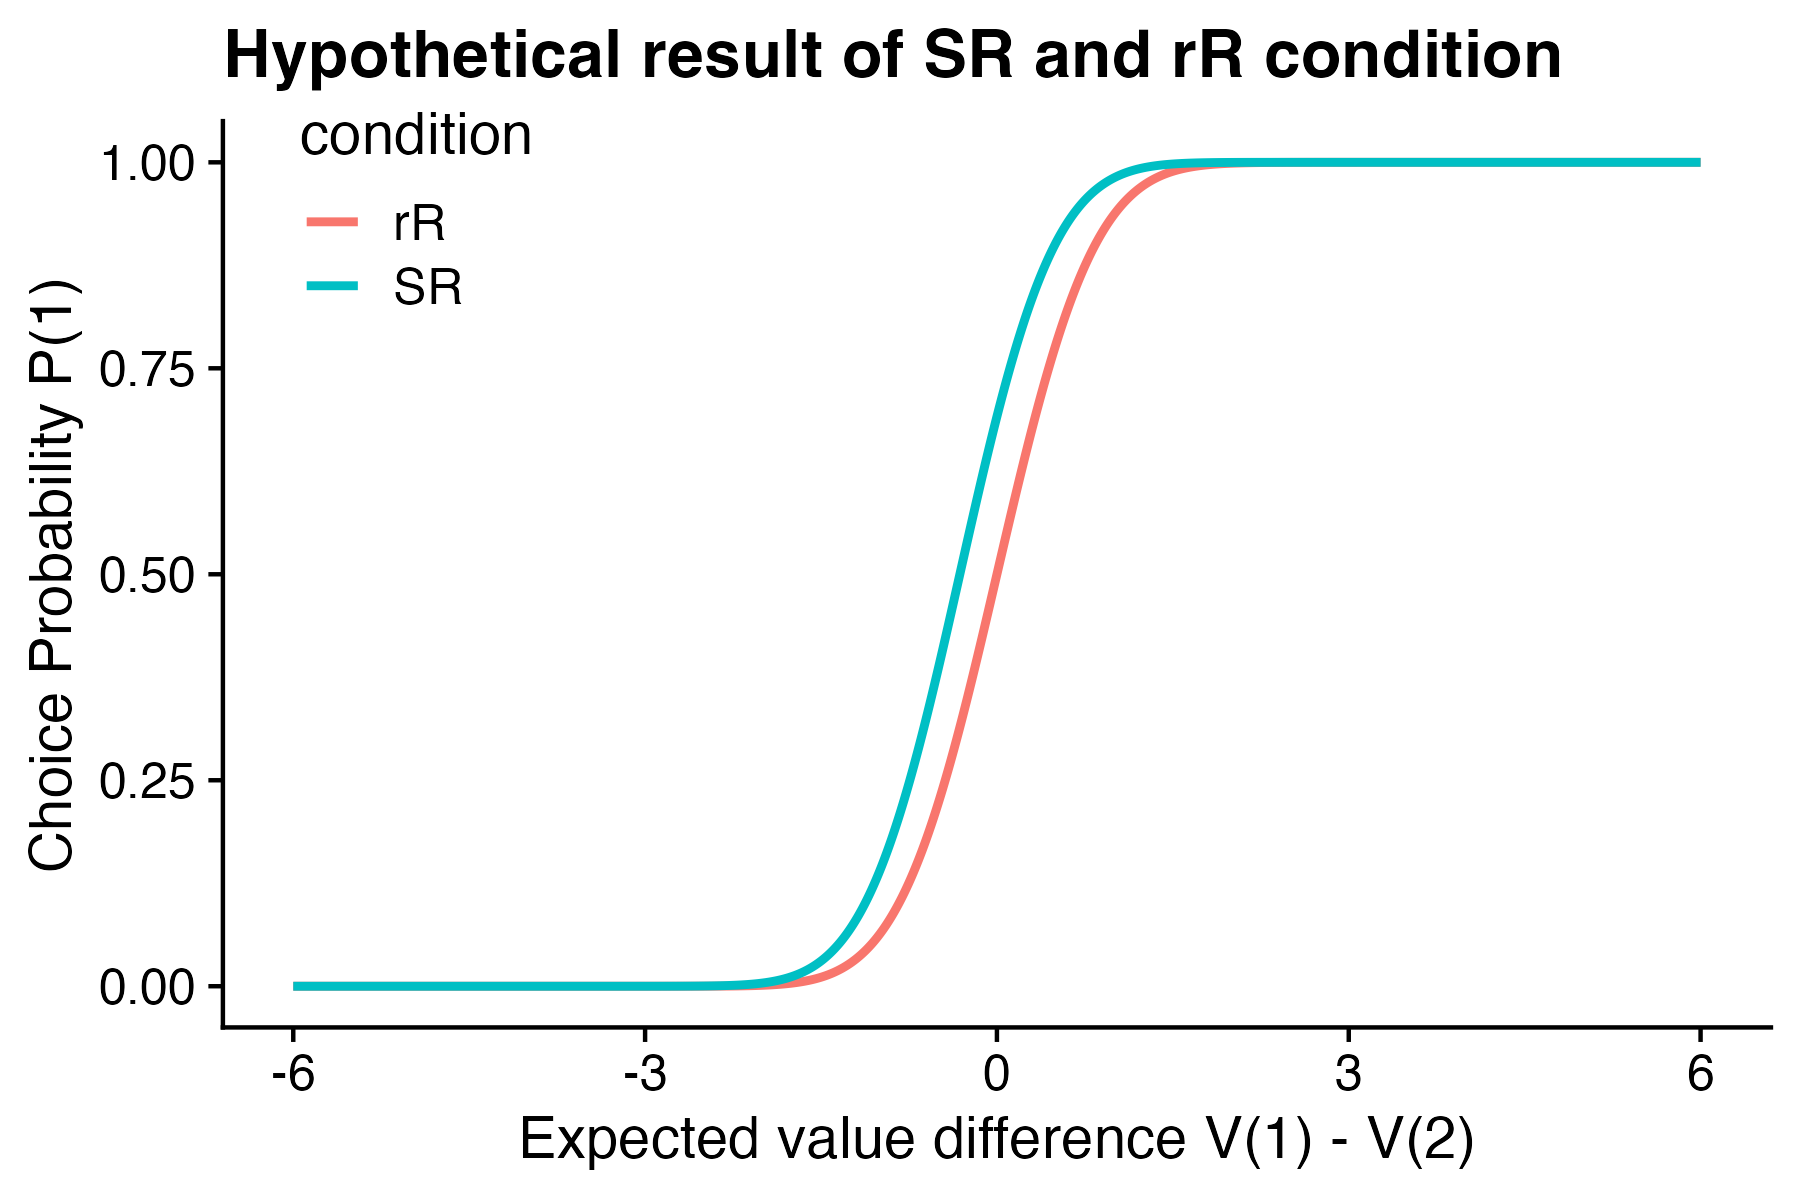
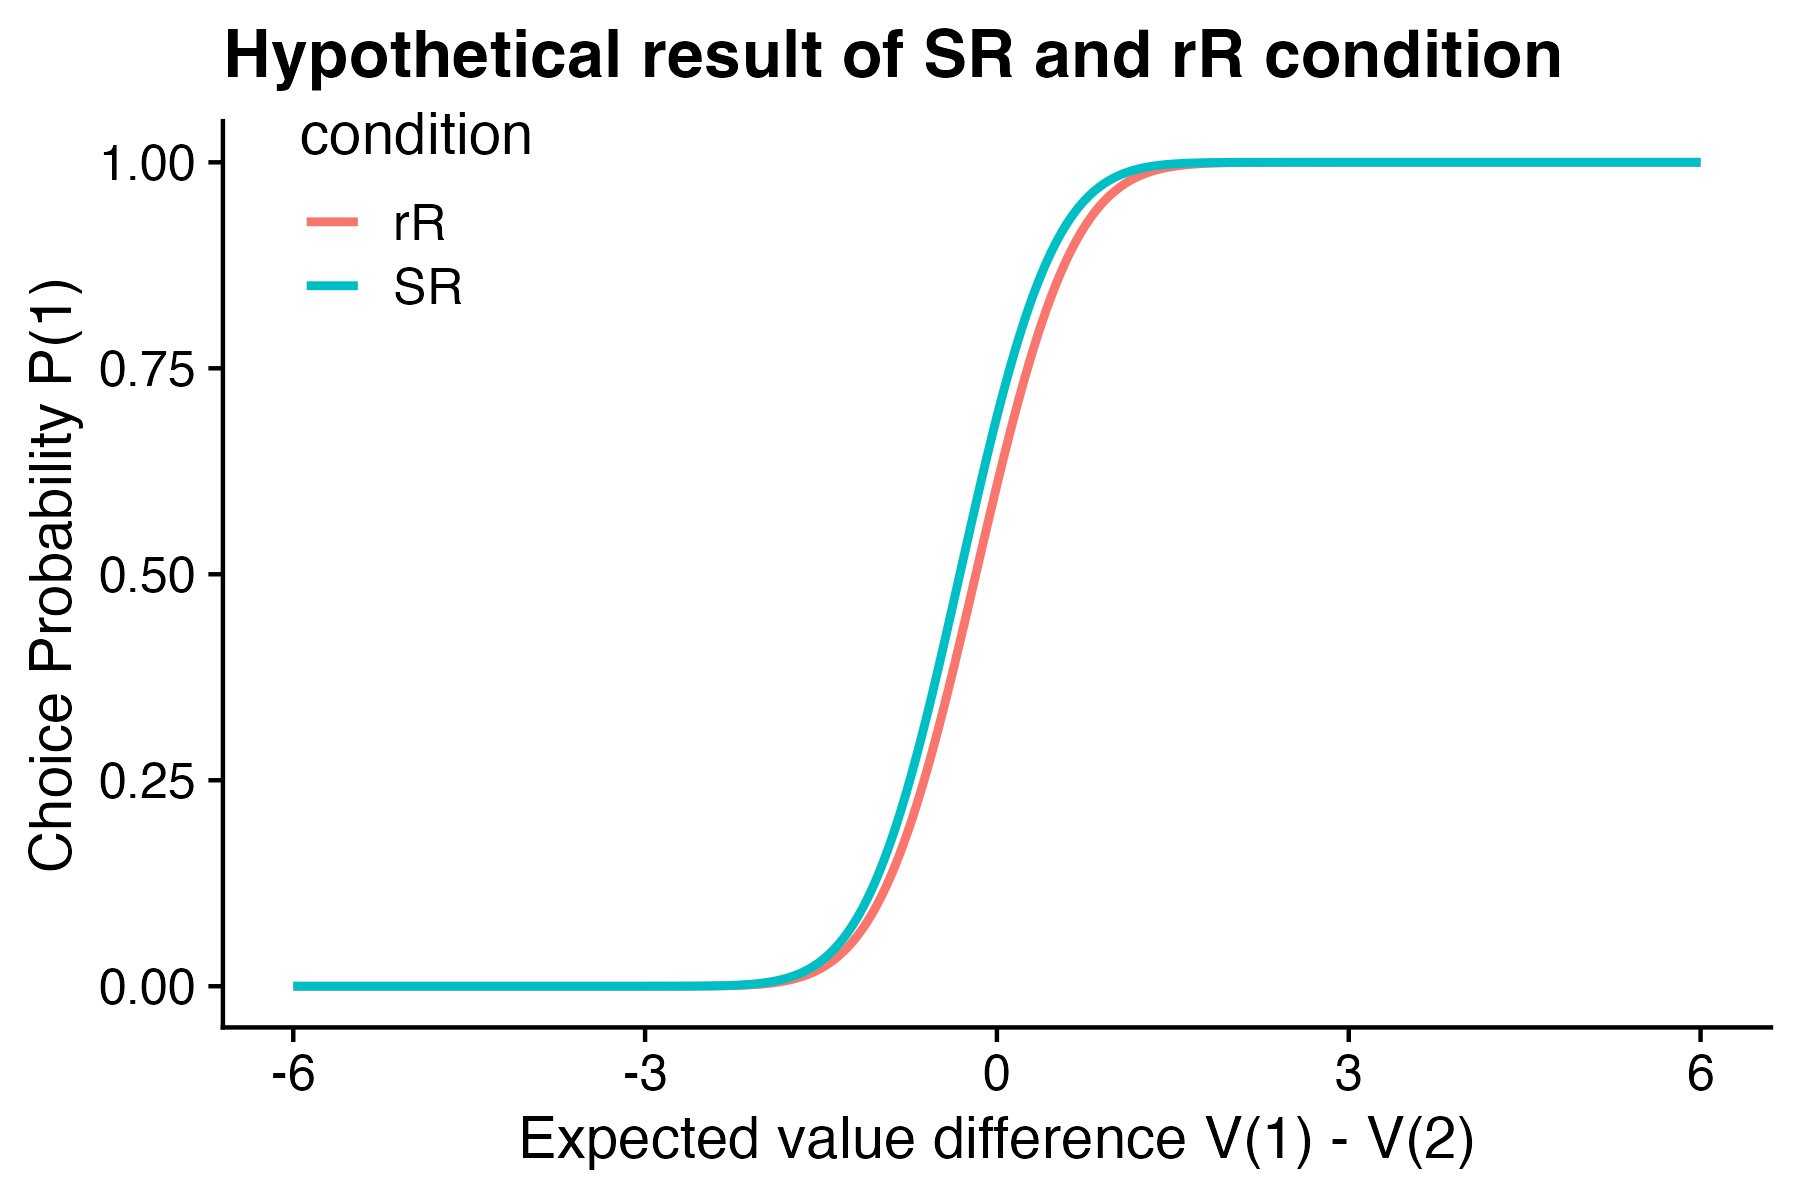
fix{RU in rR}: use correct RU in rR condition
use 0.55 of RU in SR as RU in rR, which is proportion of real value.

Changed region(s): [[0.4667, 0.1233, 0.6533, 0.8017], [0.4356, 0.8017, 0.4667, 0.8325]]

diff --git a/README.md b/README.md
@@ -4,7 +4,7 @@ $$
 P(a=1|w)=\Phi(w_1 \times V+ w_2 \times RU + w_3 \times V/TU)
 $$
 
-where $w_1$ is fixed to 1, and the value of $w_2$, $w_3$ are assigned arbitrarily for the sake of demonstration. RU is fixed to 1 for convenience in SR condition, while in RR condition RU is fixed to 0. TU is assigned to 1.72 and 1.09 respectively. (Please read the pdf or code for detail and reason)
+where $w_1$ is fixed to 1, and the value of $w_2$, $w_3$ are assigned arbitrarily for the sake of demonstration. RU is fixed to 1 for convenience in SR condition, while in rR condition RU is fixed to 0.55. TU is assigned to 1.72 and 1.89 respectively. (Please read the pdf or code for detail and reason)
 
 H1: High intolerance of uncertainty (IU) lead to less direct exploration
 
